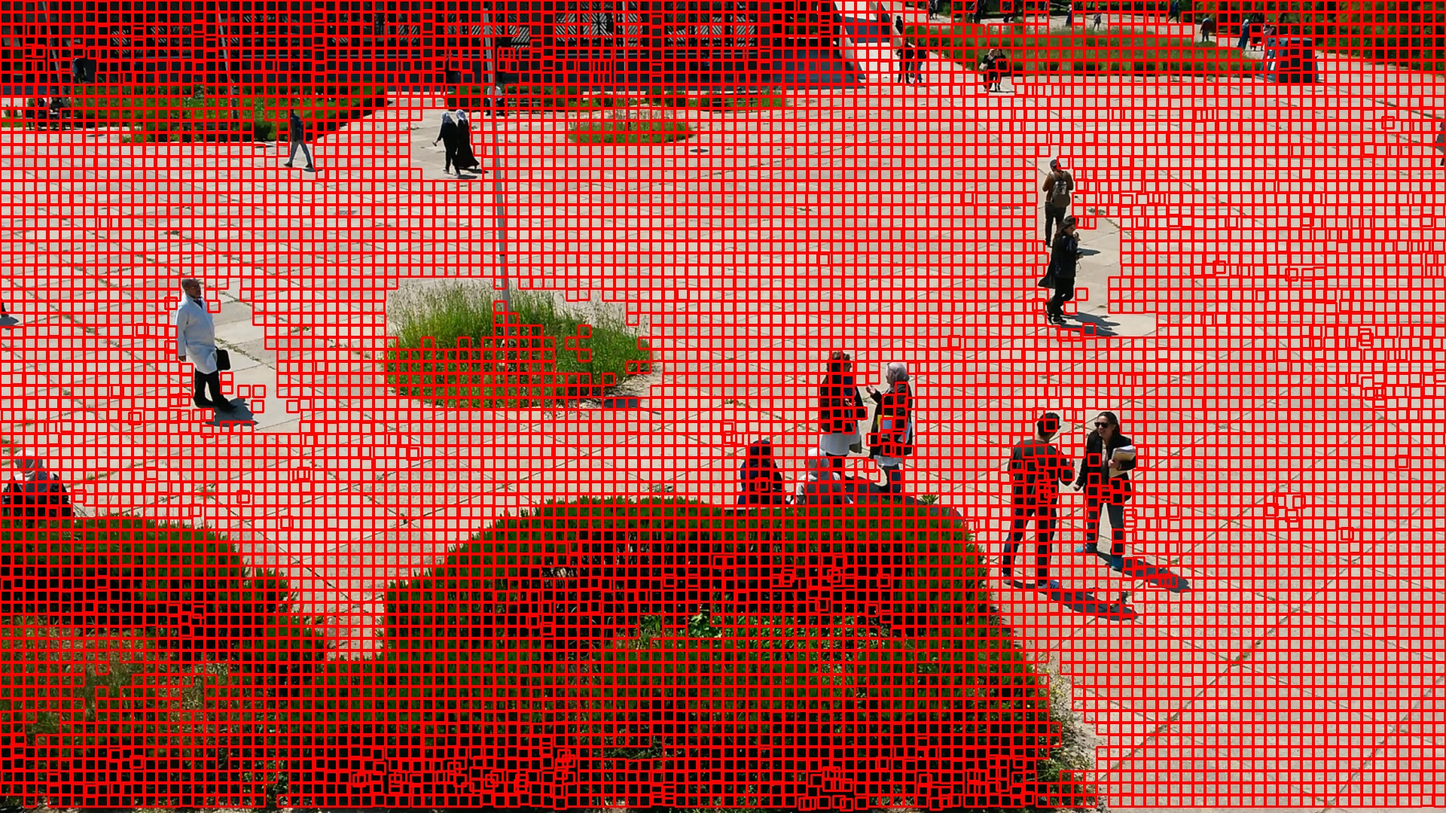
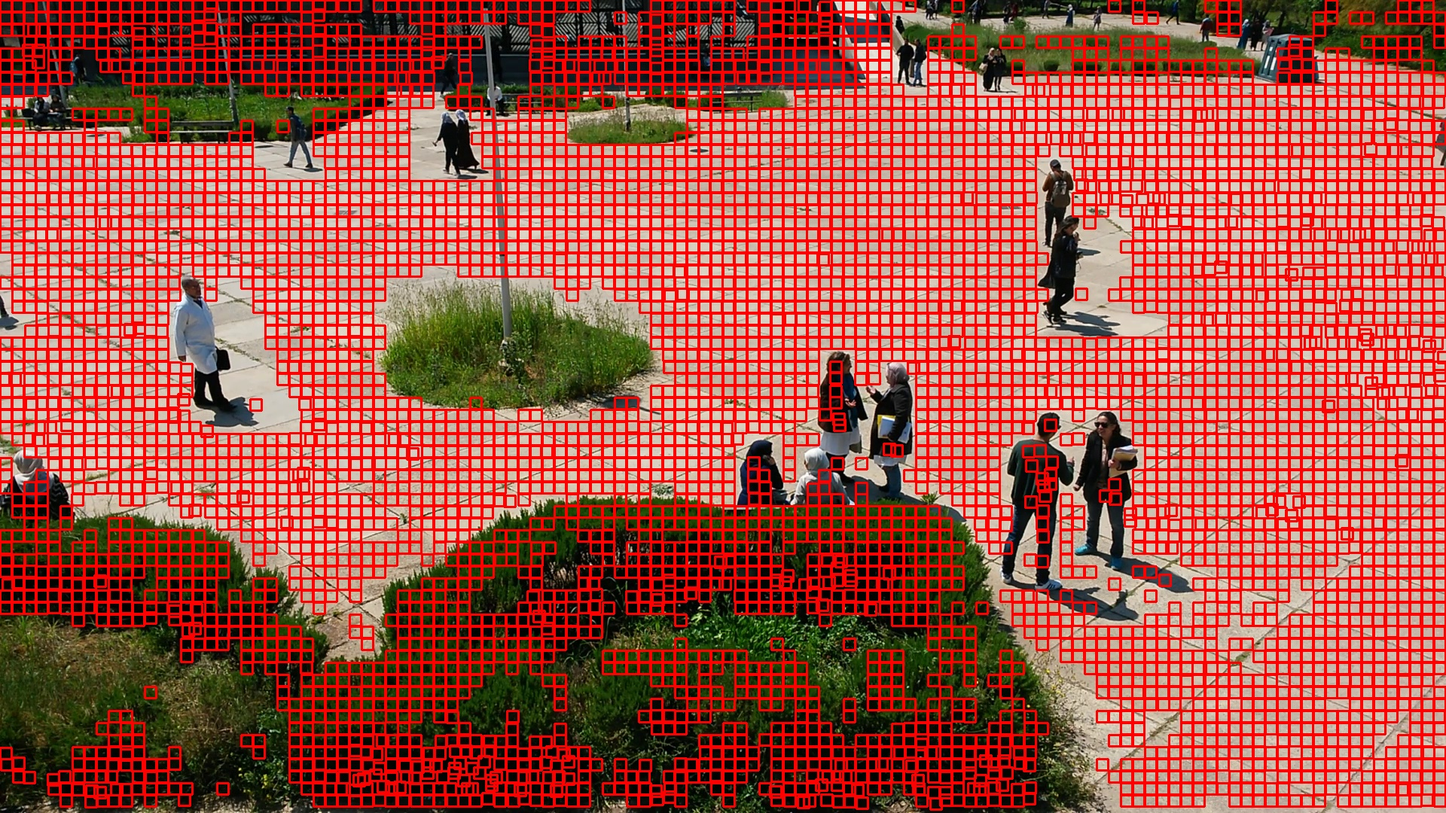
presentation version

diff --git a/Preprocessing.py b/Preprocessing.py
@@ -1,17 +1,32 @@
 import cv2
+import numpy as np
 
 
 class Preprocessing:
 
     @staticmethod
     def process_both(im1, im2, DELTA, padding=False):
-        grayImg1 = cv2.cvtColor(im1, cv2.COLOR_BGR2GRAY)
-        grayImg2 = cv2.cvtColor(im2, cv2.COLOR_BGR2GRAY)
+        # grayImg1 = cv2.cvtColor(im1, cv2.COLOR_BGR2GRAY)
+        # grayImg2 = cv2.cvtColor(im2, cv2.COLOR_BGR2GRAY)
+        yuvImg1 = cv2.cvtColor(im1, cv2.COLOR_RGB2YCrCb)
+        yuvImg2 = cv2.cvtColor(im2, cv2.COLOR_RGB2YCrCb)
+
+        luminance_image1 = np.expand_dims(yuvImg1[:, :, 0], axis=-1)
+        luminance_image2 = np.expand_dims(yuvImg2[:, :, 0], axis=-1)
+
+        luminance_image1 = luminance_image1.reshape(
+            (luminance_image1.shape[0], luminance_image1.shape[1]))
+        luminance_image2 = luminance_image2.reshape(
+            (luminance_image2.shape[0], luminance_image2.shape[1]))
+
+        # cv2.imshow("gray_image", luminance_image1)
+        # cv2.waitKey(3000)
 
         if padding:
-            grayImg1 = Preprocessing.add_padding(grayImg1, DELTA)
+            luminance_image1 = Preprocessing.add_padding(
+                luminance_image1, DELTA)
 
-        return grayImg1, grayImg2
+        return luminance_image1, luminance_image2
 
     @staticmethod
     def add_padding(image, DELTA=64):
